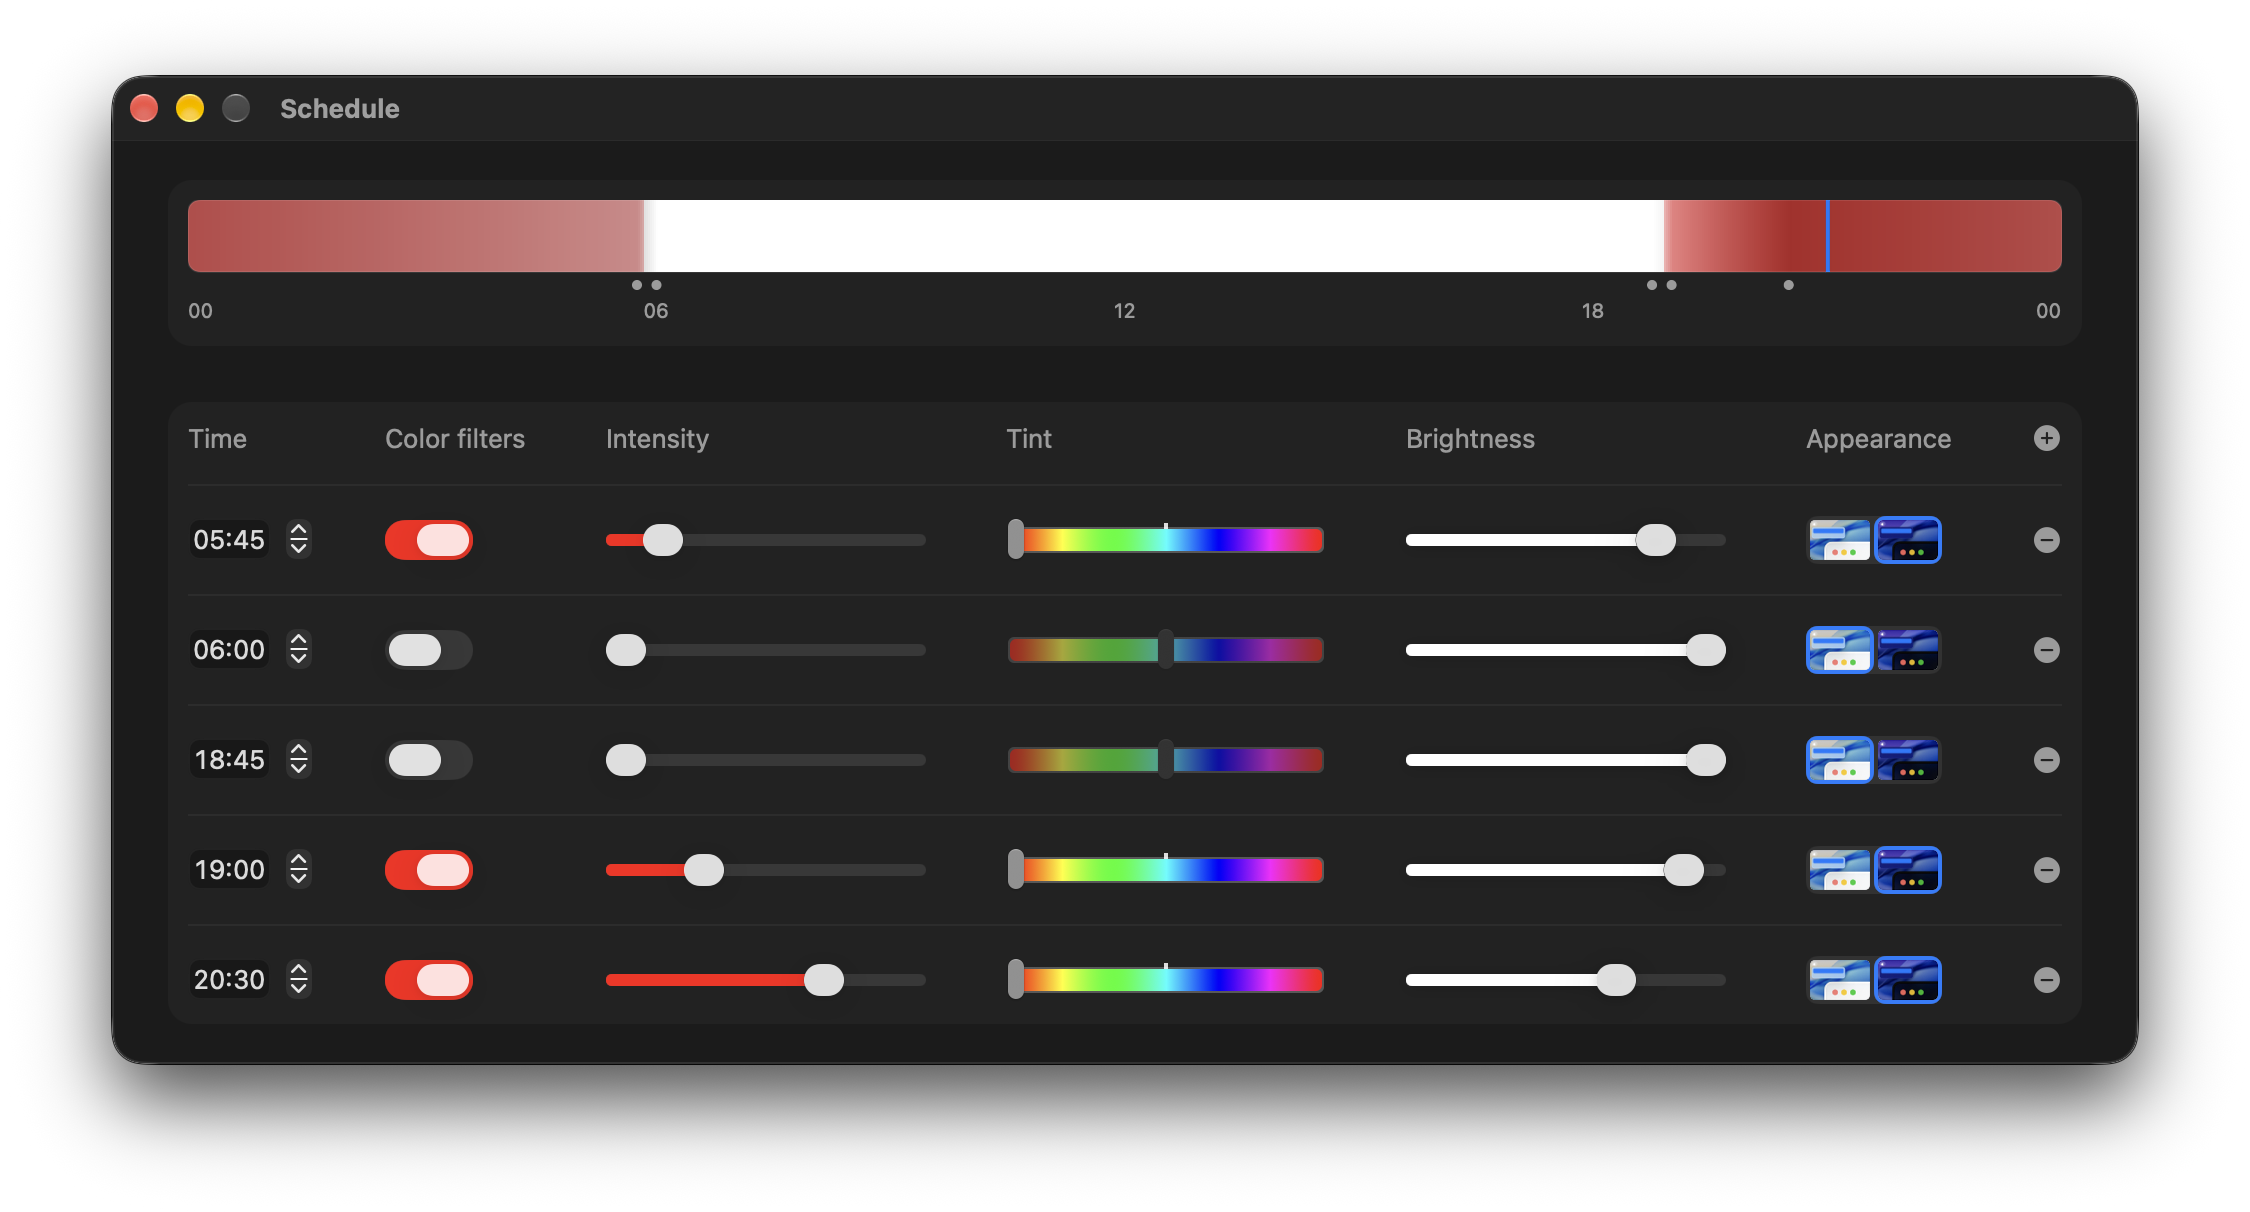
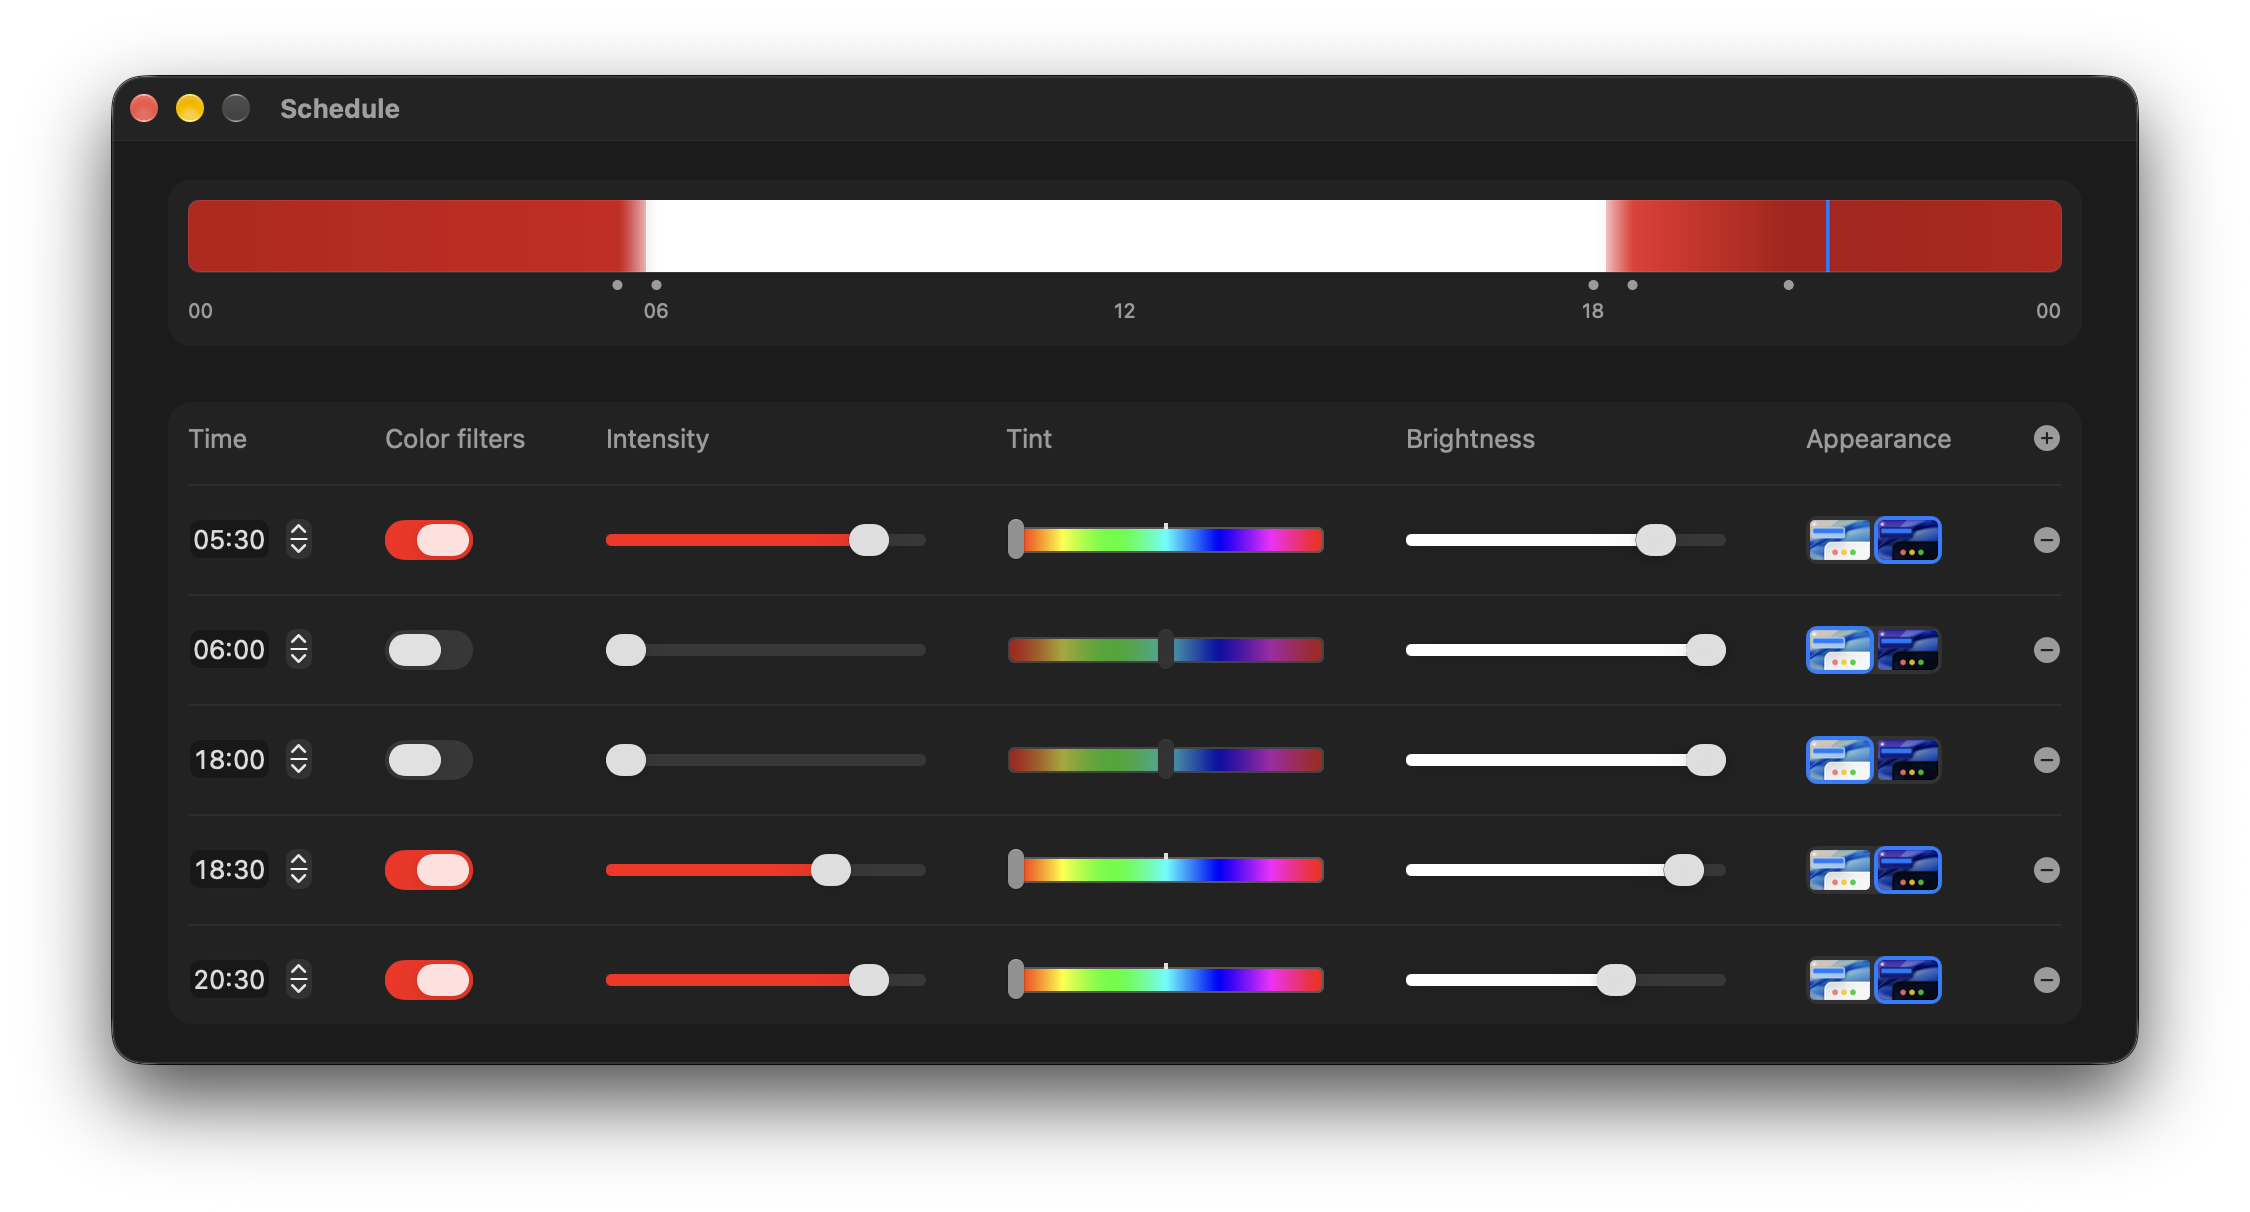
Set the default schedule to 05:30, 06:00, 18:00, 18:30 and 20:30
Intensity 90%, 0%, 0%, 80% and 90%. The off rows now hold 0, below the system filter's
lowest, so turning one on raises it to Low, and previewing one clamps it to the filter's range.
The README's screenshots are drawn again from the new schedule.

diff --git a/Safelight/Safelight.swift b/Safelight/Safelight.swift
@@ -1813,7 +1813,9 @@ class ColorController: ObservableObject {
 
     private func showPreview() {
         guard let keyframe = schedule.first(where: { $0.id == previewedKeyframeID }) else { return }
-        ColorFilterManager.shared.write(ColorFilterManager.State(isOn: keyframe.isColorFilterOn, hue: keyframe.tint / 360, intensity: keyframe.intensity))
+        let intensityRange = ColorFilterManager.shared.intensityRange
+        ColorFilterManager.shared.write(ColorFilterManager.State(isOn: keyframe.isColorFilterOn, hue: keyframe.tint / 360,
+                                                                 intensity: min(max(keyframe.intensity, intensityRange.lowerBound), intensityRange.upperBound)))
         GammaManager.shared.setBrightness(brightnessByDisplay(keyframe.brightness, keyframe.displayBrightness))
     }
 
@@ -2005,7 +2007,10 @@ struct BrightnessFollower {
 struct ColorKeyframe: Identifiable, Codable, Equatable {
     var id = UUID()
     var minute: Int
-    var isColorFilterOn: Bool
+    var isColorFilterOn: Bool {
+        // An off keyframe can hold 0, below the system filter's lowest, so turning it on starts there
+        didSet { if isColorFilterOn { intensity = max(intensity, ColorFilterManager.shared.intensityRange.lowerBound) } }
+    }
     var intensity: Float // kept while the filter is off, for when it's turned back on
     var tint: Float      // degrees
     var brightness: Float
@@ -2021,11 +2026,11 @@ struct ColorKeyframe: Identifiable, Codable, Equatable {
     }
 
     static let defaultSchedule: [ColorKeyframe] = [
-        ColorKeyframe(minute: 5 * 60 + 45,  isColorFilterOn: true,  intensity: 0.35, tint: 0,   brightness: 0.82, isDarkAppearance: true),
-        ColorKeyframe(minute: 6 * 60,       isColorFilterOn: false, intensity: 0.25, tint: 180, brightness: 1.00, isDarkAppearance: false),
-        ColorKeyframe(minute: 18 * 60 + 45, isColorFilterOn: false, intensity: 0.25, tint: 180, brightness: 1.00, isDarkAppearance: false),
-        ColorKeyframe(minute: 19 * 60,      isColorFilterOn: true,  intensity: 0.46, tint: 0,   brightness: 0.92, isDarkAppearance: true),
-        ColorKeyframe(minute: 20 * 60 + 30, isColorFilterOn: true,  intensity: 0.78, tint: 0,   brightness: 0.68, isDarkAppearance: true)
+        ColorKeyframe(minute: 5 * 60 + 30,  isColorFilterOn: true,  intensity: 0.90, tint: 0,   brightness: 0.82, isDarkAppearance: true),
+        ColorKeyframe(minute: 6 * 60,       isColorFilterOn: false, intensity: 0.00, tint: 180, brightness: 1.00, isDarkAppearance: false),
+        ColorKeyframe(minute: 18 * 60,      isColorFilterOn: false, intensity: 0.00, tint: 180, brightness: 1.00, isDarkAppearance: false),
+        ColorKeyframe(minute: 18 * 60 + 30, isColorFilterOn: true,  intensity: 0.80, tint: 0,   brightness: 0.92, isDarkAppearance: true),
+        ColorKeyframe(minute: 20 * 60 + 30, isColorFilterOn: true,  intensity: 0.90, tint: 0,   brightness: 0.68, isDarkAppearance: true)
     ]
 
     struct Settings {

diff --git a/scripts/screenshots/main.swift b/scripts/screenshots/main.swift
@@ -97,7 +97,7 @@ final class Screenshots: NSObject, NSApplicationDelegate {
         // The evening on the default schedule, with the Schedule off so every control is drawn at its brightest
         let controller = ColorController.shared
         controller.tint = 0
-        controller.intensity = 0.78
+        controller.intensity = 0.90
         controller.isColorFilterOn = true
         controller.brightness = 0.68
         controller.chooseAppearance(isDark: isDark) // which only the Appearance picker shows
